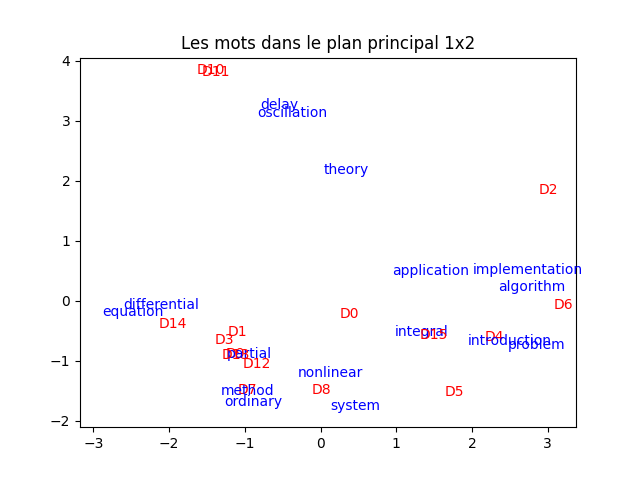
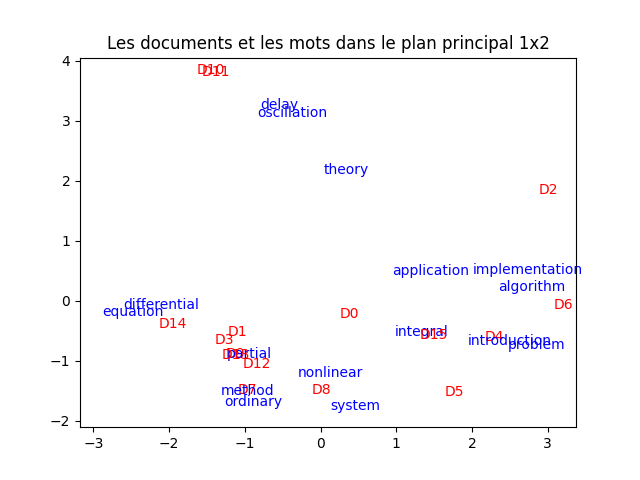
update

Changed region(s): [[0.1562, 0.0625, 0.875, 0.125]]

diff --git a/ensg/miashs/l3-sd3/tps/reduction-dimension/lsa.html b/ensg/miashs/l3-sd3/tps/reduction-dimension/lsa.html
@@ -192,7 +192,7 @@ tf [16, [1, 6, 15]] = 1</pre>
 
       <br>
 
-      Il est très intéressant de projet les documents et les mots dans le même plan. <b>À faire&nbsp;:</b> faites-le, en indiquant les documents et les mots avec des couleurs différentes. Vous devez obtenir quelque chose comme ceci&nbsp;:
+      Il est très intéressant de projeter les documents et les mots dans le même plan. <b>À faire&nbsp;:</b> faites-le, en indiquant les documents et les mots avec des couleurs différentes. Vous devez obtenir quelque chose comme ceci&nbsp;:
 
       <br>
 
@@ -216,17 +216,17 @@ tf [16, [1, 6, 15]] = 1</pre>
 	<br>
 	<br>
 
-	On fait une SVD en partant de la même matrice que pour l'ACP, c'est-à-dire la représentation TF.IDF, normée et centrée-réduite. Je suppose que vous avez nommé cet objet <code>X_scaled</code.>
+	On fait une SVD en partant de la même matrice que pour l'ACP, c'est-à-dire la représentation TF.IDF. Je suppose que vous avez nommé cet objet <code>tfidf</code.>
 	Pour réaliser la SVD, on fait comme suit&nbsp;:
 
       </p>
 
       <pre>from scipy.linalg import svd
-U, Sigma, V = svd (X_scaled)</pre>
+U, Sigma, V = svd (tfidf)</pre>
 
       <p>
 
-	On utilise ensuite <code>U</code> et <code>Sigma</code> pour projeter les documents, et la transposée de <code>V</code> et <code>Sigma</code> pour projeter les documents.
+	On utilise ensuite <code>U</code> et <code>Sigma</code> pour projeter les documents, et <code>V</code> et <code>Sigma</code> pour projeter les documents.
 
 	<br>
 
@@ -234,11 +234,15 @@ U, Sigma, V = svd (X_scaled)</pre>
 
 	<br>
 
-	Celles des mots sont <code>Sigma [0] * V. transpose () [:, 0]</code> et <code>Sigma [1] * V. transpose () [:, 1]</code>.
+	Celles des mots sont <code>Sigma [0] * V. transpose () [0, :]</code> et <code>Sigma [1] * V [1, :]</code>.
 
       <br>
 
-      <b>À faire&nbsp;:</b> faites tout ce qui vient d'être expliqué. Vous devez obtenir les mêmes graphiques que précédemment.
+      <b>À faire&nbsp;:</b> faites tout ce qui vient d'être expliqué. Vous devez obtenir ce graphique&nbsp;:
+
+      <br>
+
+      <img src="LDS.docs-mots-SVD.png" width="400pt" alt="Projection documents et mods par LSA" />
 
       </p>
 
